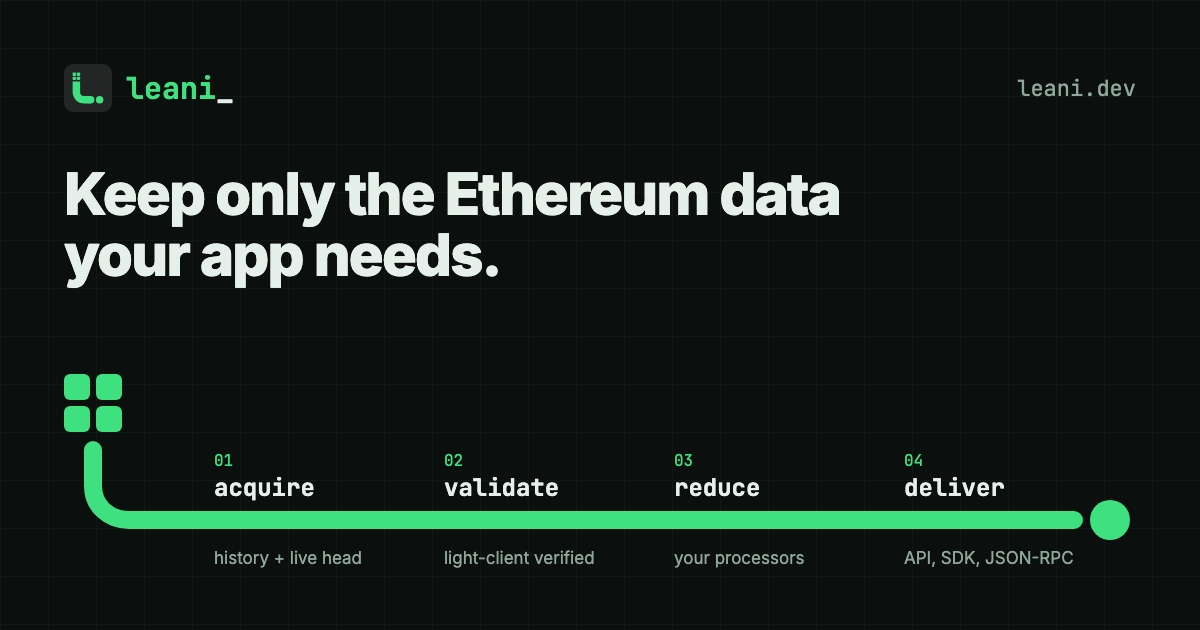
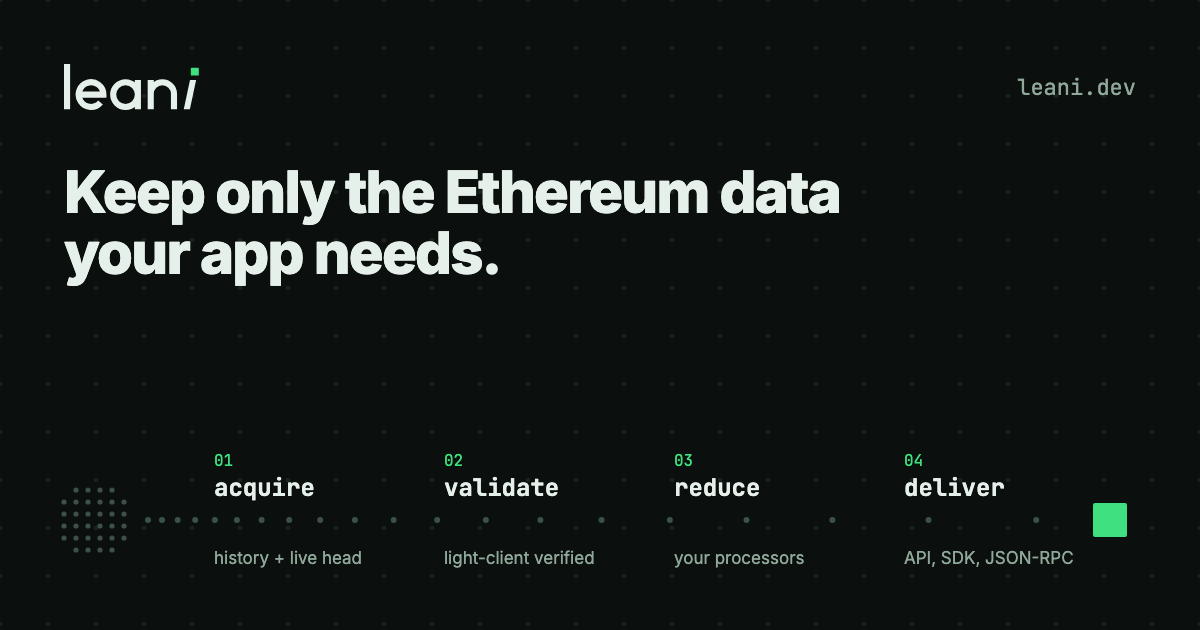
feat(brand): replace the mark with the lean i
The old mark packed four blocks, a pipe and a dot into a dark tile
and read as "iL." at 16 px. The new mark is an i leaning 12 degrees,
one per second of a slot, with a square block for its dot.

- brand SVGs live in site/src/assets/brand; brand:update publishes
  them and renders the ICO, touch icon and avatar from the tile icon
- /leani-mark.svg keeps resolving and now serves the tile icon
- wordmark replaces leani_ in the header, footer, engine and docs
- share card keeps the pipeline and reduces an epoch to one block
- smoke test keeps every inline wordmark equal to the published SVG

diff --git a/site/scripts/og-card.html b/site/scripts/og-card.html
@@ -6,6 +6,8 @@
       --virtual-time-budget=3000 --screenshot=public/og-image.png \
       "file://$PWD/scripts/og-card.html"
   Fonts load from node_modules, so run `bun install` first.
+  The wordmark paths match src/assets/brand/leani-wordmark-on-dark.svg. The flow
+  starts at one epoch's 32 slots and thins out to the one block an app keeps.
 -->
 <html lang="en">
 <head>
@@ -17,15 +19,14 @@
   * { box-sizing: border-box; }
   body { margin: 0; }
   .card { width: 1200px; height: 630px; position: relative; overflow: hidden; padding: 64px; background: #0b0f0d; color: #e6f0ea; font-family: 'Inter', sans-serif; }
-  .grid { position: absolute; inset: 0; opacity: .55; background-size: 48px 48px; background-image: linear-gradient(#16201b 1px, transparent 1px), linear-gradient(90deg, #16201b 1px, transparent 1px); }
+  .field { position: absolute; inset: 0; background-image: radial-gradient(circle, #18231e 2.2px, transparent 2.6px); background-size: 48px 48px; background-position: 24px 24px; }
   .top { position: relative; display: flex; justify-content: space-between; align-items: center; }
-  .brand { display: flex; align-items: center; gap: 14px; font: 700 30px 'JetBrains Mono', monospace; }
-  .brand svg { width: 48px; height: 48px; display: block; }
-  .accent { color: #3ee07f; }
+  .brand { display: block; height: 46px; width: auto; }
   .url { font: 400 22px 'JetBrains Mono', monospace; color: #8fa89a; }
   h1 { position: relative; max-width: 860px; margin: 52px 0 0; font-size: 58px; font-weight: 800; line-height: 1.06; letter-spacing: -0.03em; }
   .flow { position: absolute; left: 64px; right: 64px; bottom: 56px; height: 200px; }
   .flow svg { width: 100%; height: 100%; overflow: visible; }
+  .slots { fill: #3c5247; }
   .num { font: 400 16px 'JetBrains Mono', monospace; fill: #3ee07f; }
   .step { font: 700 24px 'JetBrains Mono', monospace; fill: #e6f0ea; }
   .caption { font: 400 17px 'Inter', sans-serif; fill: #8fa89a; }
@@ -33,23 +34,21 @@
 </head>
 <body>
 <div class="card">
-  <div class="grid"></div>
+  <div class="field"></div>
   <div class="top">
-    <div class="brand">
-      <svg viewBox="0 0 256 256" aria-hidden="true"><rect width="256" height="256" rx="48" fill="#242625"/><g transform="translate(-38 -10.5)" fill="#3ee07f"><rect x="84" y="56" width="18" height="18" rx="4"/><rect x="106" y="56" width="18" height="18" rx="4"/><rect x="84" y="78" width="18" height="18" rx="4"/><rect x="106" y="78" width="18" height="18" rx="4"/><path d="M104 104v56c0 23 18 41 41 41h35" fill="none" stroke="#3ee07f" stroke-width="40" stroke-linejoin="round"/><circle cx="180" cy="201" r="20"/><circle cx="228" cy="201" r="20"/></g></svg>
-      <span><span class="accent">leani</span>_</span>
-    </div>
+    <svg class="brand" viewBox="0 0 220.37 75.2" aria-label="Leani">
+      <path d="M5 0V74M24 50H64.4A20.2 20.2 0 1 0 59.67 62.98M120.8 50A20.2 20.2 0 1 0 80.4 50A20.2 20.2 0 1 0 120.8 50M120.8 26V74M141.8 74V26M141.8 74V48.8A19 19 0 0 1 179.8 48.8V74" fill="none" stroke="#e6f0ea" stroke-width="10"/>
+      <path d="M195.8 74L205.8 74L216 26L206 26Z" fill="#e6f0ea"/>
+      <rect x="207.37" y="6" width="13" height="13" rx="1.2" fill="#3ee07f"/>
+    </svg>
     <div class="url">leani.dev</div>
   </div>
   <h1>Keep only the Ethereum data your app needs.</h1>
   <div class="flow">
     <svg viewBox="0 0 1072 200" aria-hidden="true">
-      <g fill="#3ee07f">
-        <rect x="0" y="0" width="26" height="26" rx="6"/><rect x="32" y="0" width="26" height="26" rx="6"/>
-        <rect x="0" y="32" width="26" height="26" rx="6"/><rect x="32" y="32" width="26" height="26" rx="6"/>
-      </g>
-      <path d="M29 76 V112 C29 132 45 146 65 146 H1010" fill="none" stroke="#3ee07f" stroke-width="18" stroke-linecap="round"/>
-      <circle cx="1046" cy="146" r="20" fill="#3ee07f"/>
+      <g class="slots"><circle cx="12" cy="116" r="2.6"/><circle cx="24" cy="116" r="2.6"/><circle cx="36" cy="116" r="2.6"/><circle cx="48" cy="116" r="2.6"/><circle cx="0" cy="128" r="2.6"/><circle cx="12" cy="128" r="2.6"/><circle cx="24" cy="128" r="2.6"/><circle cx="36" cy="128" r="2.6"/><circle cx="48" cy="128" r="2.6"/><circle cx="60" cy="128" r="2.6"/><circle cx="0" cy="140" r="2.6"/><circle cx="12" cy="140" r="2.6"/><circle cx="24" cy="140" r="2.6"/><circle cx="36" cy="140" r="2.6"/><circle cx="48" cy="140" r="2.6"/><circle cx="60" cy="140" r="2.6"/><circle cx="0" cy="152" r="2.6"/><circle cx="12" cy="152" r="2.6"/><circle cx="24" cy="152" r="2.6"/><circle cx="36" cy="152" r="2.6"/><circle cx="48" cy="152" r="2.6"/><circle cx="60" cy="152" r="2.6"/><circle cx="0" cy="164" r="2.6"/><circle cx="12" cy="164" r="2.6"/><circle cx="24" cy="164" r="2.6"/><circle cx="36" cy="164" r="2.6"/><circle cx="48" cy="164" r="2.6"/><circle cx="60" cy="164" r="2.6"/><circle cx="12" cy="176" r="2.6"/><circle cx="24" cy="176" r="2.6"/><circle cx="36" cy="176" r="2.6"/><circle cx="48" cy="176" r="2.6"/></g>
+      <g class="slots"><circle cx="84" cy="146" r="3"/><circle cx="98" cy="146" r="3"/><circle cx="113.7" cy="146" r="3"/><circle cx="131.2" cy="146" r="3"/><circle cx="150.9" cy="146" r="3"/><circle cx="172.9" cy="146" r="3"/><circle cx="197.6" cy="146" r="3"/><circle cx="225.2" cy="146" r="3"/><circle cx="256.2" cy="146" r="3"/><circle cx="290.9" cy="146" r="3"/><circle cx="329.7" cy="146" r="3"/><circle cx="373.2" cy="146" r="3"/><circle cx="421.9" cy="146" r="3"/><circle cx="476.4" cy="146" r="3"/><circle cx="537.5" cy="146" r="3"/><circle cx="605.9" cy="146" r="3"/><circle cx="682.5" cy="146" r="3"/><circle cx="768.4" cy="146" r="3"/><circle cx="864.5" cy="146" r="3"/><circle cx="972.2" cy="146" r="3"/></g>
+      <rect x="1029" y="129" width="34" height="34" rx="2" fill="#3ee07f"/>
       <text class="num" x="150" y="92">01</text><text class="step" x="150" y="122">acquire</text>
       <text class="num" x="380" y="92">02</text><text class="step" x="380" y="122">validate</text>
       <text class="num" x="610" y="92">03</text><text class="step" x="610" y="122">reduce</text>

diff --git a/site/scripts/generate-brand-assets.ts b/site/scripts/generate-brand-assets.ts
@@ -3,13 +3,21 @@ import { dirname, resolve } from 'node:path';
 import sharp from 'sharp';
 
 const siteRoot = resolve(import.meta.dir, '..');
-const source = resolve(siteRoot, 'src/assets/leani-mark.svg');
+const brandDir = resolve(siteRoot, 'src/assets/brand');
 const publicDir = resolve(siteRoot, 'public');
-const svg = await readFile(source);
+// The tile icon is the raster source, and it keeps the old /leani-mark.svg URL working.
+const svg = await readFile(resolve(brandDir, 'leani-icon.svg'));
+const published: Array<[source: string, target: string]> = [
+  ['leani-icon.svg', 'leani-mark.svg'],
+  ['leani-mark-on-dark.svg', 'leani-mark-on-dark.svg'],
+  ['leani-mark-on-light.svg', 'leani-mark-on-light.svg'],
+  ['leani-wordmark-on-dark.svg', 'leani-wordmark-on-dark.svg'],
+  ['leani-wordmark-on-light.svg', 'leani-wordmark-on-light.svg'],
+  ['favicon.svg', 'favicon.svg'],
+];
 
 await mkdir(publicDir, { recursive: true });
-await copyFile(source, resolve(publicDir, 'leani-mark.svg'));
-await copyFile(source, resolve(publicDir, 'favicon.svg'));
+await Promise.all(published.map(([from, to]) => copyFile(resolve(brandDir, from), resolve(publicDir, to))));
 
 async function renderPng(size: number): Promise<Buffer> {
   return sharp(svg, { density: 384 })

diff --git a/site/test/smoke.test.ts b/site/test/smoke.test.ts
@@ -21,6 +21,19 @@ test('interactive widgets use scoped selectors and semantic copy controls', () =
   expect(hero).not.toContain('api.github.com');
 });
 
+test('every copy of the wordmark draws the published shapes', () => {
+  const read = (path: string) => readFileSync(new URL(path, import.meta.url), 'utf8');
+  // Path data and block position: the parts that would drift if one copy were edited alone.
+  const shapes = (svg: string) =>
+    [...svg.matchAll(/ d="([^"]+)"|<rect x="([\d.]+)" y="([\d.]+)"/g)].map((m) => m.slice(1).filter(Boolean).join(' '));
+  const published = shapes(read('../src/assets/brand/leani-wordmark-on-dark.svg'));
+
+  expect(published).toHaveLength(3);
+  expect(shapes(read('../src/assets/brand/leani-wordmark-on-light.svg'))).toEqual(published);
+  expect(shapes(read('../src/components/Wordmark.astro'))).toEqual(published);
+  expect(shapes(read('../scripts/og-card.html')).slice(0, 3)).toEqual(published);
+});
+
 test('the share card image matches its declared size', async () => {
   const { SOCIAL_IMAGE } = await import('../src/lib/social');
   const png = readFileSync(new URL(`../public${SOCIAL_IMAGE.path}`, import.meta.url));

diff --git a/site/src/styles/docs.css b/site/src/styles/docs.css
@@ -46,6 +46,11 @@ pre,
   letter-spacing: -0.02em;
 }
 
+/* The wordmark logo, at the same height as on the landing page header. */
+.site-title img {
+  height: 1.375rem;
+}
+
 .sl-markdown-content :is(h2, h3, h4) {
   text-wrap: balance;
 }

diff --git a/docs/reference/brand-assets.md b/docs/reference/brand-assets.md
@@ -1,6 +1,6 @@
 ---
 title: Brand assets
-description: Download the Leani logo, avatar, and share card, with the brand colors and fonts.
+description: Download the Leani mark, wordmark, avatar, and share card, with the rules, colors, and fonts that go with them.
 section: reference
 order: 90
 audience:
@@ -14,32 +14,59 @@ directory or app store.
 
 | Asset | Size | Use it for |
 |---|---|---|
-| [Logo mark](/leani-mark.svg) | SVG | Any size: headers, slides, diagrams |
+| [Wordmark on dark](/leani-wordmark-on-dark.svg) | SVG | Headers, slides, and diagrams on dark backgrounds |
+| [Wordmark on light](/leani-wordmark-on-light.svg) | SVG | Headers, slides, and diagrams on light backgrounds |
+| [Mark on dark](/leani-mark-on-dark.svg) | SVG | Small spaces on dark backgrounds, where the wordmark doesn't fit |
+| [Mark on light](/leani-mark-on-light.svg) | SVG | Small spaces on light backgrounds |
+| [App icon](/leani-mark.svg) | SVG | The mark on its dark tile, for app icons and tiles |
 | [Avatar](/leani-social-avatar.png) | 1024×1024 PNG | Profile pictures, app icons, directory listings |
 | [Share card](/og-image.png) | 1200×630 PNG | Link previews; the site's pages already use it |
 
-<img src="/leani-social-avatar.png" width="160" height="160" alt="The Leani avatar: a green L-shaped path from four blocks to one dot on a dark tile" />
+<img src="/leani-social-avatar.png" width="160" height="160" alt="The Leani avatar: a white lowercase i leaning to the right, with a green square for its dot, on a dark tile" />
 
-![The Leani share card: "Keep only the Ethereum data your app needs." above the acquire, validate, reduce, deliver pipeline](/og-image.png)
+![The Leani share card: "Keep only the Ethereum data your app needs." above the acquire, validate, reduce, deliver pipeline, which thins a field of dots down to one green block](/og-image.png)
 
-## Name, colors, and type
+## The mark
 
-Write the name as Leani in prose. The wordmark is lowercase `leani_` in
-JetBrains Mono Bold, with `leani` in green and the underscore in the text color.
+The mark is a lowercase i that leans 12°, one degree for each second of an
+Ethereum slot. Its dot is a square block: the one block an application keeps. The
+wordmark spells `leani` in a geometric lowercase and ends in the same i.
+
+- Keep the 12° lean, the square dot, and the proportions. Don't redraw the
+  wordmark in a font.
+- Use the dark-background files on dark surfaces and the light-background files
+  on light ones. Only the app icon and avatar carry a tile.
+- Leave clear space around the mark at least as wide as its dot.
+- Below 24 pixels, use the mark rather than the wordmark. The favicon is a
+  heavier cut of the mark for 16 and 32 pixels.
+- Write the name as Leani in prose.
+
+## The epoch field
+
+The supporting pattern is one epoch's 32 slots: a 6×6 grid of dots without its
+corners. One slot can be kept as a green block. The share card and the site use
+it as background texture and to show data being reduced.
+
+- Use the field behind headlines and illustrations, never inside the mark or
+  next to it.
+- Don't use it below 48 pixels or behind running text.
+
+## Colors and type
 
 | Role | Color |
 |---|---|
 | Background | `#0b0f0d` |
 | Text | `#e6f0ea` |
 | Accent green | `#3ee07f` |
-| Logo tile | `#242625` |
+| Accent green on light backgrounds | `#12a150` |
+| Text on light backgrounds | `#0b0f0d` |
 
-Body text uses Inter; code, commands, and the wordmark use JetBrains Mono.
-Keep the mark's proportions and colors; it carries its own dark tile.
+Body text uses Inter; code and commands use JetBrains Mono. The wordmark is
+drawn, not typeset.
 
 ## Source files
 
-The mark, favicons, and avatar are generated from
-`site/src/assets/leani-mark.svg` with `bun run brand:update` in `site/`. The
-share card is rendered from `site/scripts/og-card.html`; its header comment
+The SVGs live in `site/src/assets/brand`. Run `bun run brand:update` in `site/`
+to publish them and to regenerate the favicons and avatar from the app icon.
+The share card is rendered from `site/scripts/og-card.html`; its header comment
 has the command.

diff --git a/site/README.md b/site/README.md
@@ -16,9 +16,12 @@ manifest into ignored render inputs under `src/generated`. Run
 changes; that command requires the repository Rust toolchain. Normal site builds
 require Bun only and make no network requests.
 
-Brand exports come from `src/assets/leani-mark.svg`. Run `bun run brand:update`
-after changing it to regenerate the SVG favicon, ICO, Apple touch icon, and
-social-media avatar under `public`.
+Brand exports come from `src/assets/brand`: the mark and wordmark for dark and
+light backgrounds, the tile icon, and the favicon. Run `bun run brand:update`
+after changing any of them to publish the SVGs and regenerate the ICO, Apple
+touch icon, and social-media avatar under `public`. `src/components/Wordmark.astro`
+and `scripts/og-card.html` inline the wordmark; `bun test` checks that every
+copy matches.
 
 The pinned `typescript` 5.9 package provides the JavaScript compiler API used
 by Astro and the executable documentation generator. TypeScript examples use

diff --git a/README.md b/README.md
@@ -1,4 +1,9 @@
-# Leani
+<h1>
+  <picture>
+    <source media="(prefers-color-scheme: dark)" srcset="site/public/leani-wordmark-on-dark.svg">
+    <img src="site/public/leani-wordmark-on-light.svg" alt="Leani" height="48">
+  </picture>
+</h1>
 
 Lean, state-minimized Ethereum indexing node. Leani backfills application
 data from public datasets, follows the chain head over native Ethereum P2P,
